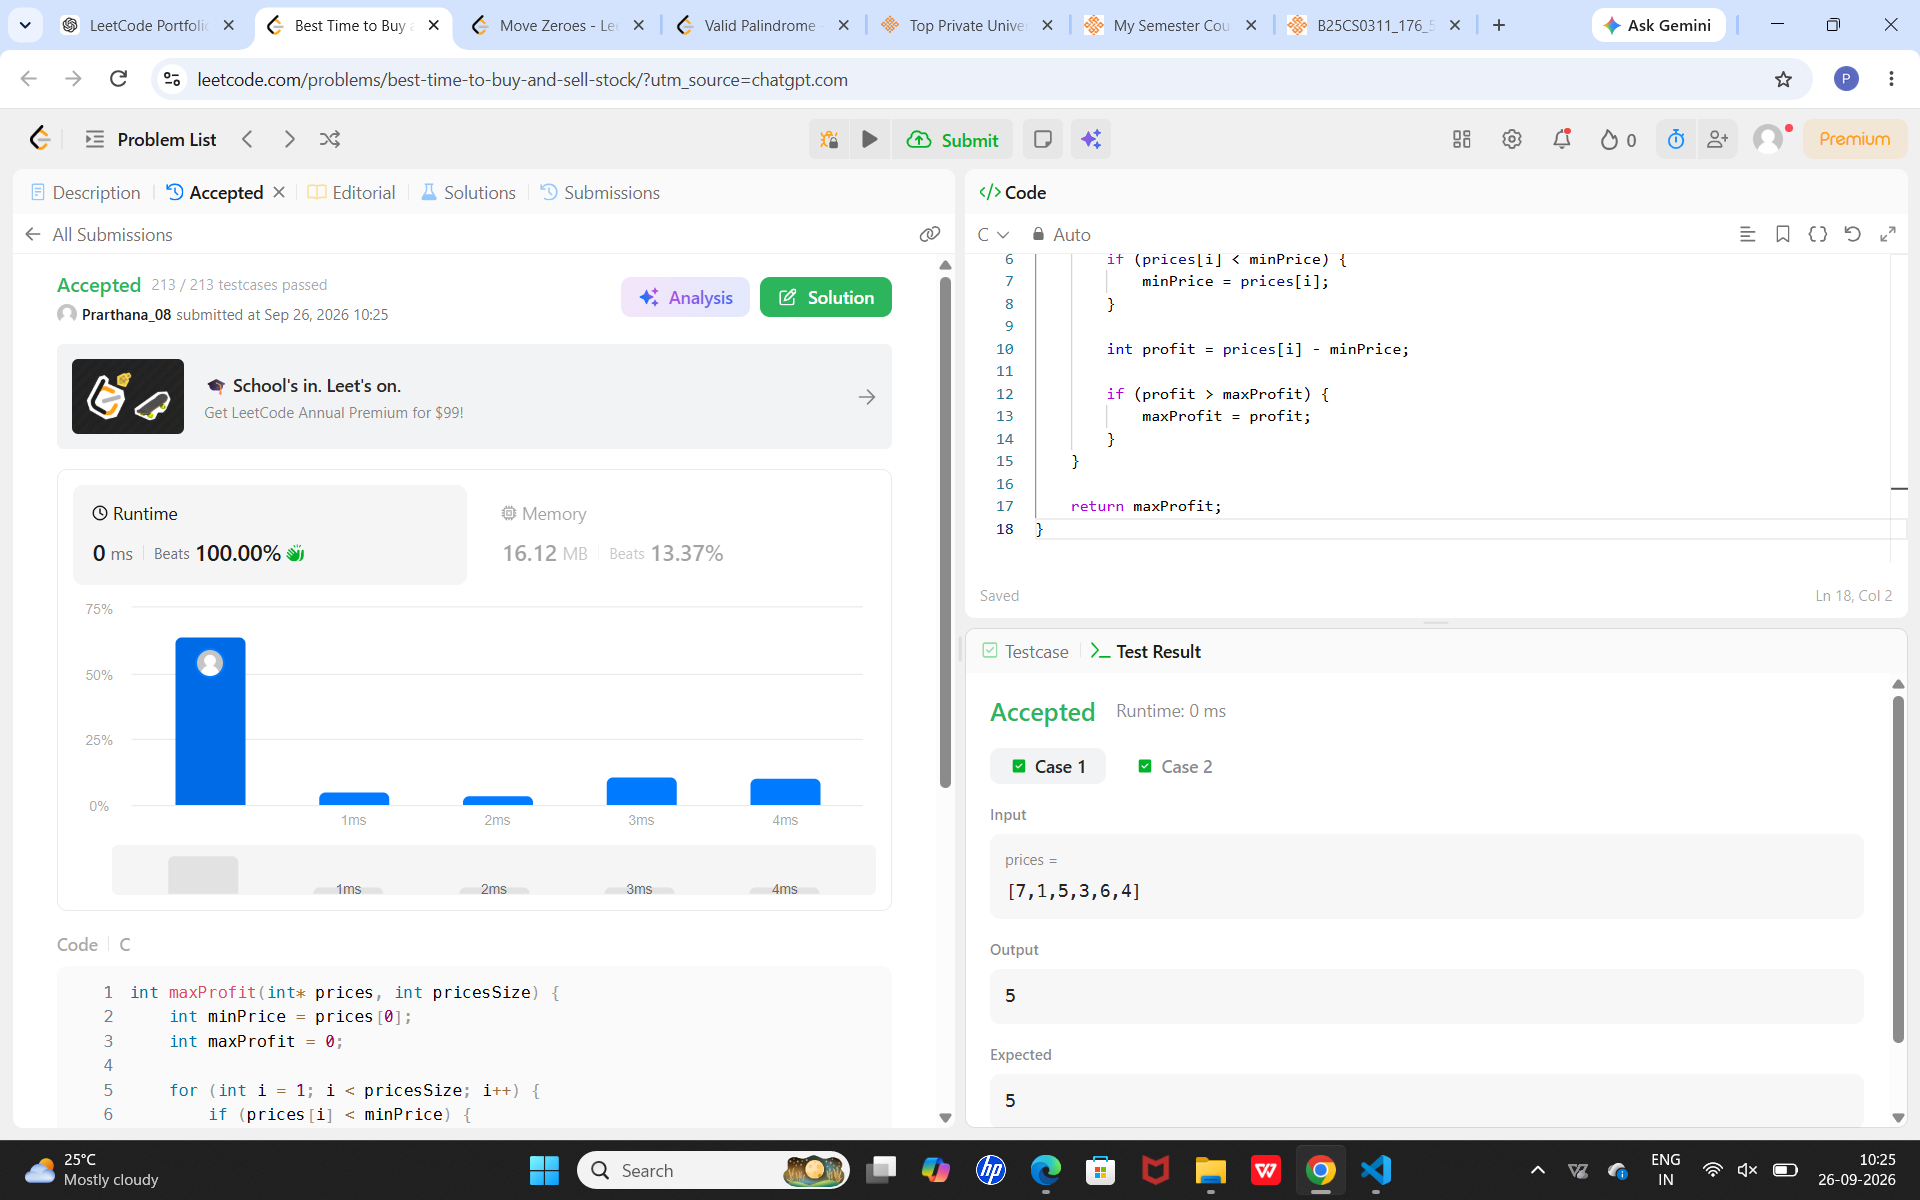
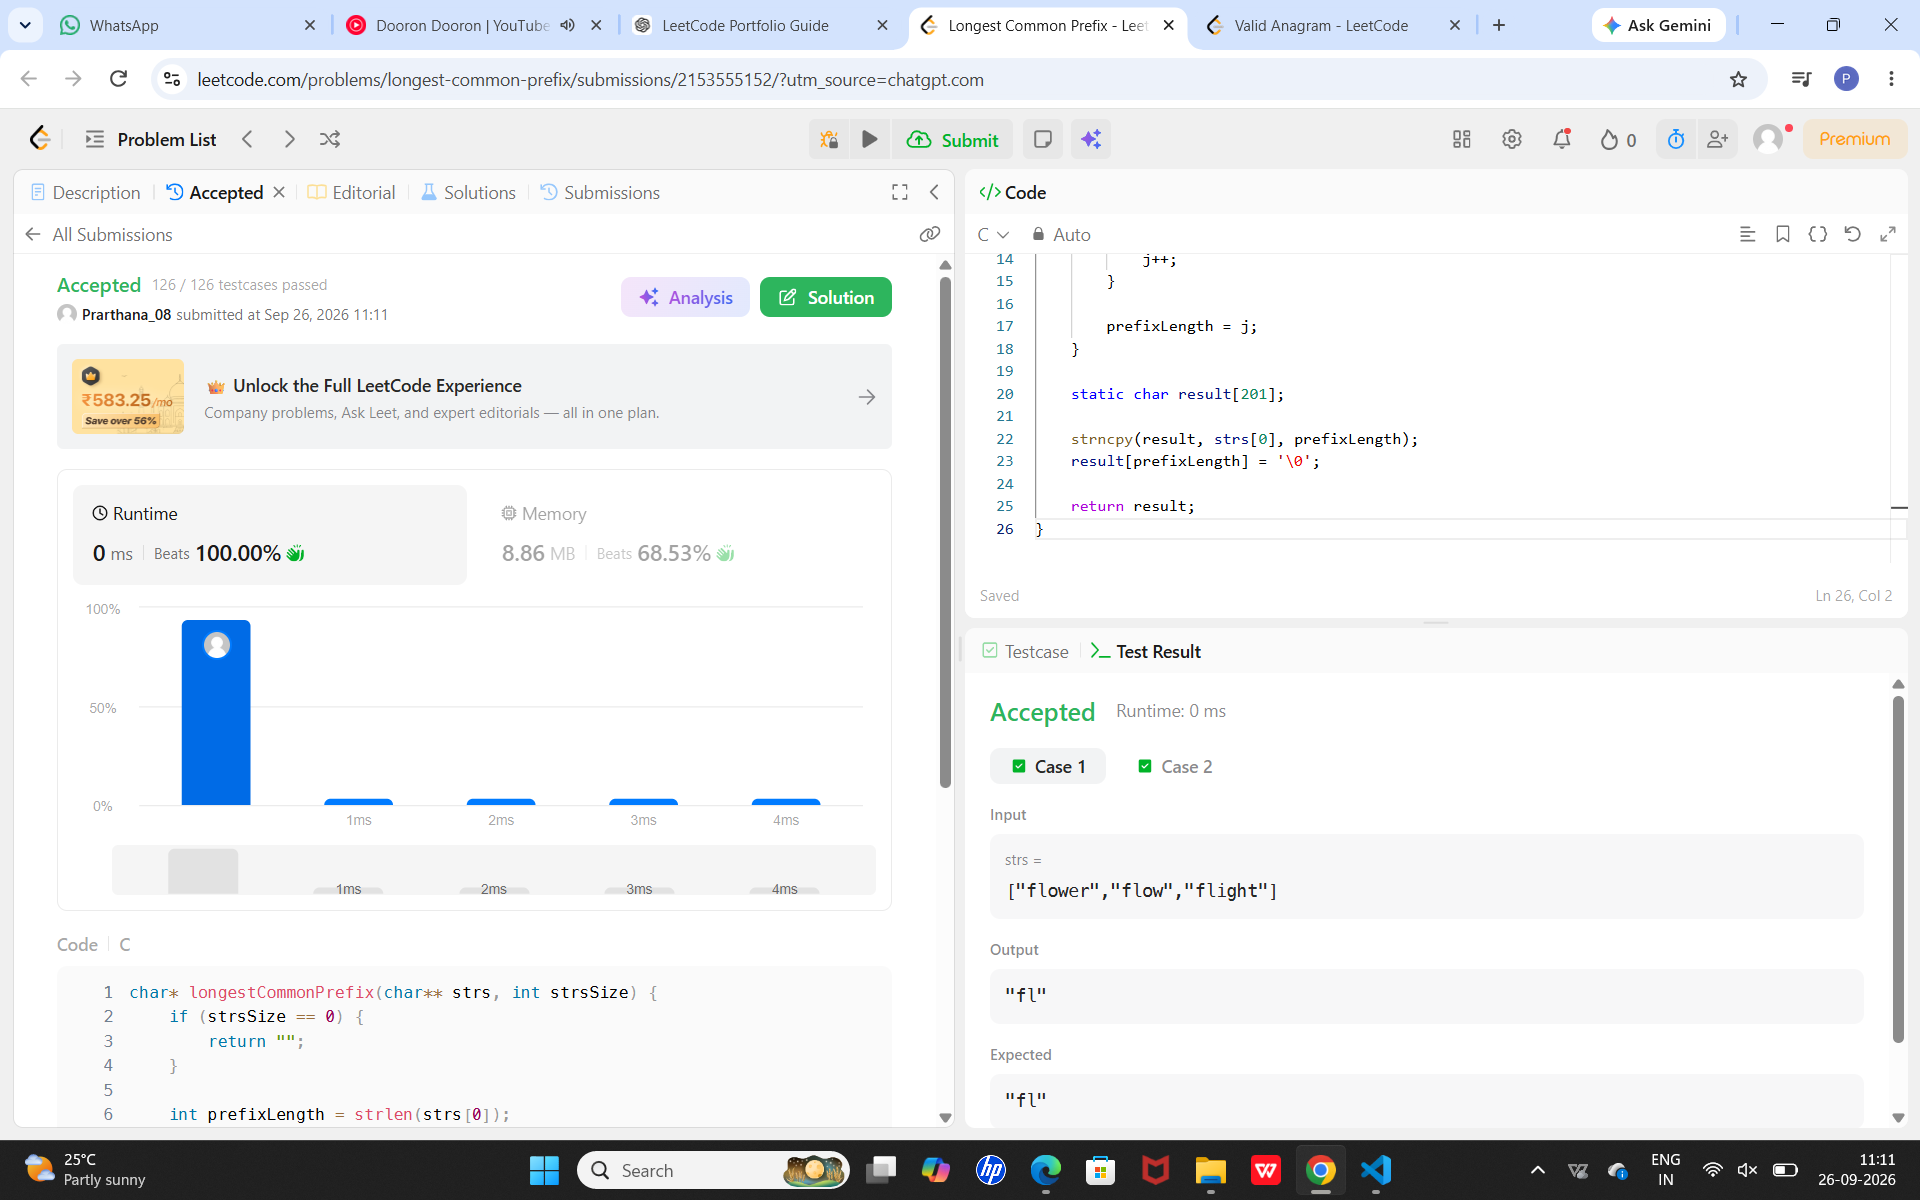
Organize Activity 4 solutions by topic

diff --git a/leetcode-solutions/README.md b/leetcode-solutions/README.md
@@ -1,74 +1,63 @@
 # LeetCode Solutions
 
-**Name:** Prarthana HS  
-**Roll Number:** R25EF194  
-**Course:** Portfolio Building for Engineering Students  
-**Course Code:** B25GE0101  
-**Semester:** 3rd Semester, CSE  
+**Name:** Prarthana HS
+**Roll Number:** R25EF194
+**Course:** Portfolio Building for Engineering Students
+**Course Code:** B25GE0101
+**Semester:** 3rd Semester, CSE
 
 ## About
 
 Personal LeetCode practice log — part of B25GE0101 portfolio.
 
-This repository contains my solutions to selected LeetCode problems. Each solution includes a C implementation, test cases, documentation, and a LeetCode result screenshot.
+This repository contains my solutions to the Activity 4 problem set, written in C, tested locally where permitted by the system, submitted to LeetCode, and documented for portfolio use.
 
-## Topics
+## Table of Contents
 
-- [Arrays & Strings](./arrays-strings/)
-- [Basic Algorithms](./basic-algorithms/)
-- [Stacks](./stacks/)
-- [Linked Lists](./linked-lists/)
+* [Arrays & Strings](./arrays-strings/)
+* [Basic Algorithms](./basic-algorithms/)
+* [Stacks](./stacks/)
+* [Linked Lists](./linked-lists/)
 
-## Problems Solved
+## Activity 4 — Required Problems
 
 ### Arrays & Strings
 
 1. [Two Sum](./arrays-strings/01-two-sum.c)
 2. [Reverse String](./arrays-strings/02-reverse-string.c)
-3. [Valid Palindrome](./arrays-strings/03-valid-palindrome.c)
-4. [Move Zeroes](./arrays-strings/04-move-zeroes.c)
-5. [Best Time to Buy and Sell Stock](./arrays-strings/05-best-time-stock.c)
-6. [Contains Duplicate](./arrays-strings/06-contains-duplicate.c)
-7. [Maximum Subarray](./arrays-strings/07-maximum-subarray.c)
-8. [Merge Sorted Array](./arrays-strings/08-merge-sorted-array.c)
+3. [Valid Anagram](./arrays-strings/03-valid-anagram.c)
+4. [Best Time to Buy and Sell Stock](./arrays-strings/04-best-time-stock.c)
+5. [Longest Common Prefix](./arrays-strings/05-longest-common-prefix.c)
 
-> Note: The eight completed problems are currently organized under `arrays-strings/`. The remaining topic folders are retained as part of the required Activity 4 repository structure.
+### Basic Algorithms
 
-## Repository Structure
+6. [Move Zeroes](./basic-algorithms/06-move-zeroes.c)
+7. [Binary Search](./basic-algorithms/07-binary-search.c)
 
-```text
-leetcode-solutions/
-├── README.md
-├── PROGRESS.md
-├── arrays-strings/
-│   ├── 01-two-sum.c
-│   ├── 01-two-sum.md
-│   ├── 01-result.png
-│   ├── 02-reverse-string.c
-│   ├── 02-reverse-string.md
-│   ├── 02-result.png
-│   ├── 03-valid-palindrome.c
-│   ├── 03-valid-palindrome.md
-│   ├── 03-result.png
-│   ├── 04-move-zeroes.c
-│   ├── 04-move-zeroes.md
-│   ├── 04-result.png
-│   ├── 05-best-time-stock.c
-│   ├── 05-best-time-stock.md
-│   ├── 05-result.png
-│   ├── 06-contains-duplicate.c
-│   ├── 06-contains-duplicate.md
-│   ├── 06-result.png
-│   ├── 07-maximum-subarray.c
-│   ├── 07-maximum-subarray.md
-│   ├── 07-result.png
-│   ├── 08-merge-sorted-array.c
-│   ├── 08-merge-sorted-array.md
-│   └── 08-result.png
-├── basic-algorithms/
-│   └── .gitkeep
-├── stacks/
-│   └── .gitkeep
-└── linked-lists/
-    └── .gitkeep
+### Stacks
 
+8. [Valid Parentheses](./stacks/08-valid-parentheses.c)
+
+### Linked Lists
+
+The `linked-lists/` folder is retained as part of the required repository structure. Reverse Linked List is listed as a bonus problem in the activity and has not been included in the required eight.
+
+## Additional Practice
+
+The following problems were also completed as extra LeetCode practice:
+
+* [Valid Palindrome](./arrays-strings/03-valid-palindrome.c)
+* [Contains Duplicate](./arrays-strings/06-contains-duplicate.c)
+* [Maximum Subarray](./arrays-strings/07-maximum-subarray.c)
+* [Merge Sorted Array](./arrays-strings/08-merge-sorted-array.c)
+
+These additional problems are separate from the required Activity 4 set.
+
+## Learning Highlights
+
+* Practiced array and string manipulation in C.
+* Applied two-pointer, frequency-counting, stack, and binary-search techniques.
+* Practiced in-place array operations and prefix comparison.
+* Improved an initial brute-force solution after encountering a Time Limit Exceeded result.
+* Used Git and GitHub for incremental version control.
+* Documented solutions with approaches, complexity analysis, and test cases.

diff --git a/leetcode-solutions/PROGRESS.md b/leetcode-solutions/PROGRESS.md
@@ -2,22 +2,33 @@
 
 This file tracks my LeetCode practice progress throughout the semester.
 
-| Date | Problem | Topic | Difficulty | Status | Time Taken |
-|---|---|---|---|---|---|
-| 24/09/2026 | Two Sum | Arrays & Strings | Easy | Solved | -- |
-| 23/09/2026 | Reverse String | Arrays & Strings | Easy | Solved | -- |
-| 23/09/2026 | Valid Palindrome | Arrays & Strings | Easy | Solved | -- |
-| 23/09/2026 | Move Zeroes | Arrays & Strings | Easy | Solved | -- |
-| 23/09/2026 | Best Time to Buy and Sell Stock | Arrays & Strings | Easy | Solved | -- |
-| 23/09/2026 | Contains Duplicate | Arrays & Strings | Easy | Solved | -- |
-| 23/09/2026 | Maximum Subarray | Arrays & Strings | Medium | Solved | -- |
-| 23/09/2026 | Merge Sorted Array | Arrays & Strings | Easy | Solved | -- |
+## Activity 4 Required Problem Set
+
+| Date       | Problem                         | Topic            | Difficulty | Status | Time Taken |
+| ---------- | ------------------------------- | ---------------- | ---------- | ------ | ---------- |
+| 24/09/2026 | Two Sum                         | Arrays & Strings | Easy       | Solved | --         |
+| 23/09/2026 | Reverse String                  | Arrays & Strings | Easy       | Solved | --         |
+| 26/09/2026 | Valid Anagram                   | Arrays & Strings | Easy       | Solved | --         |
+| 23/09/2026 | Best Time to Buy and Sell Stock | Arrays & Strings | Easy       | Solved | --         |
+| 26/09/2026 | Longest Common Prefix           | Arrays & Strings | Easy       | Solved | --         |
+| 23/09/2026 | Move Zeroes                     | Basic Algorithms | Easy       | Solved | --         |
+| 26/09/2026 | Binary Search                   | Basic Algorithms | Easy       | Solved | --         |
+| 26/09/2026 | Valid Parentheses               | Stacks           | Easy       | Solved | --         |
 
 ## Progress Summary
 
-**Problems Solved:** 8/8
+**Required Activity 4 problems completed:** 8/8
 
-All eight required LeetCode practice problems have been completed, documented, and tested on LeetCode.
+All eight required problems have been documented and submitted successfully on LeetCode.
+
+## Additional Practice
+
+| Problem            | Topic            | Status |
+| ------------------ | ---------------- | ------ |
+| Valid Palindrome   | Arrays & Strings | Solved |
+| Contains Duplicate | Arrays & Strings | Solved |
+| Maximum Subarray   | Arrays & Strings | Solved |
+| Merge Sorted Array | Arrays & Strings | Solved |
 
 ## Future Practice
 
